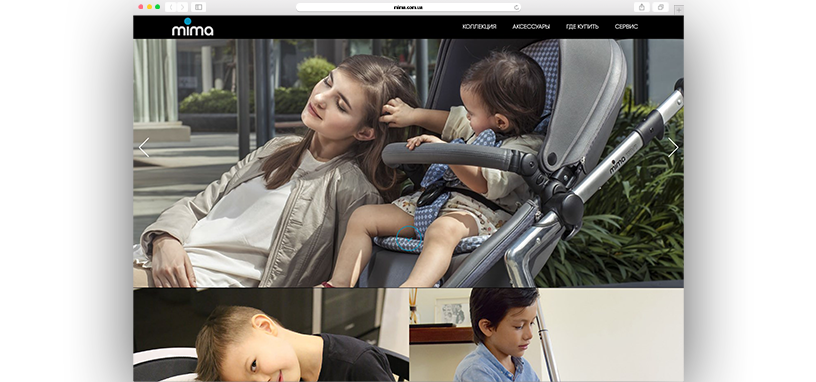
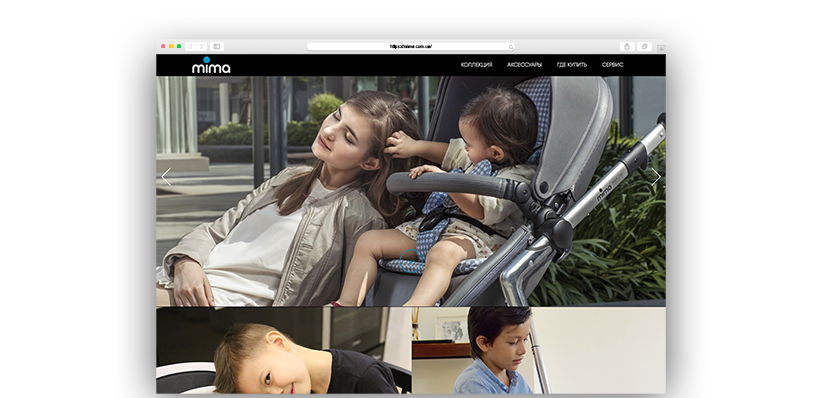
HTML/CSS Fixed

diff --git a/index.html b/index.html
@@ -181,8 +181,9 @@
                 <div class="row">
                     <div class="col-sm-12 col-md-4">
                         <div class="iq-works-box text-left">
-                            <div class="step">1</div>
+
                             <div class="icon-bg text-center">
+                                <div class="step">1</div>
                                 <i aria-hidden="true" class="ion-ionic"></i>
                             </div>
                             <h5 class="iq-tw-7 text-uppercase iq-mt-25 iq-mb-15">Цель сайта</h5>
@@ -191,8 +192,9 @@
                     </div>
                     <div class="col-sm-12 col-md-4 re-mt-50">
                         <div class="iq-works-box text-left">
-                            <div class="step">2</div>
+
                             <div class="icon-bg text-center">
+                                <div class="step">2</div>
                                 <i aria-hidden="true" class="ion-eye"></i>
                             </div>
                             <h5 class="iq-tw-7 text-uppercase iq-mt-25 iq-mb-15">Сбор информации ЦА</h5>
@@ -201,8 +203,9 @@
                     </div>
                     <div class="col-sm-12 col-md-4 re-mt-50">
                         <div class="iq-works-box text-left">
-                            <div class="step">3</div>
+
                             <div class="icon-bg text-center">
+                                <div class="step">3</div>
                                 <i aria-hidden="true" class="ion-clipboard"></i>
                             </div>
                             <h5 class="iq-tw-7 text-uppercase iq-mt-25 iq-mb-15">Четкое ТЗ</h5>
@@ -258,7 +261,7 @@
 
         <!-- Great Screenshots -->
 
-        <section id="great-screenshots" class="overview-block-ptb iq-bg iq-bg-fixed iq-over-blue-80 iq-screenshots" style="background: url(images/bg/07.jpg);">
+        <section id="great-screenshots" class="overview-block-ptb iq-bg iq-bg-fixed iq-over-blue-80 iq-screenshots" style="background: url(images/paralax.jpg);">
             <div class="container">
                 <div class="row">
                     <div class="col-sm-12">
@@ -665,7 +668,7 @@
                         <div class="col-md-6">
                             <div class="counter-info-img">
                                 <img class="center-block" src="images/comp1.png" alt="">
-<!--
+                                <!--
                                 <a href="video/01.mp4" class="iq-video popup-youtube"><i class="ion-ios-play-outline"></i></a>
                                 <div class="iq-waves">
                                     <div class="waves wave-1"></div>
@@ -695,26 +698,26 @@
                         <p class="iq-font-15">Более чем за 10 лет работы на рынке разработки сайтов, мы выявили самые эффективные технологии для создания сайтов:</p>
 
                         <div class="row">
-                            <div class="col-md-6">
+                            <div class="col-xs-6">
                                 <img class="img-responsive" src="images/tehnology/01.jpg" alt="">
                             </div>
-                            <div class="col-md-6">
+                            <div class="col-xs-6">
                                 <img class="img-responsive" src="images/tehnology/03.png" alt="">
                             </div>
                         </div>
                         <div class="row">
-                            <div class="col-md-6">
+                            <div class="col-xs-6">
                                 <img class="img-responsive" src="images/tehnology/04.png" alt="">
                             </div>
-                            <div class="col-md-6">
+                            <div class="col-xs-6">
                                 <img class="img-responsive" src="images/tehnology/05.png" alt="">
                             </div>
                         </div>
                         <div class="row">
-                            <div class="col-md-6">
+                            <div class="col-xs-6">
                                 <img class="img-responsive" src="images/tehnology/07.png" alt="">
                             </div>
-                            <div class="col-md-6">
+                            <div class="col-xs-6">
                                 <img class="img-responsive" src="images/tehnology/06.png" alt="">
                             </div>
                         </div>

diff --git a/css/responsive.css b/css/responsive.css
@@ -59,6 +59,8 @@ NOTE: This file contains the styling for responsive Template.
 	.slider-container .slider-left { right: 100%; }
 	.slider-container .slider-right { left: 100%; }
 	.iq-footer-box .iq-icon i { margin-right: 10px; }
+    .iq-amazing-tab .nav.nav-tabs li a span { font-size: 0; }
+    header .navbar-header .navbar-brand img, header .navbar-header .navbar-brand img { height:30px !important; width: auto !important; }
 }
 
 @media(max-width:992px) {
@@ -66,7 +68,7 @@ NOTE: This file contains the styling for responsive Template.
 	/*----------------
 	Section padding 
 	----------------*/
-	.overview-block-ptb { padding: 70px 0; }
+	.overview-block-ptb { padding: 30px 0; }
 	.overview-block-pt { padding: 70px 0 0; }
 	.overview-block-pb { padding: 0 0 70px; }
 	.iq-banner .banner-text h1 { font-size: 38px; }
@@ -79,8 +81,8 @@ NOTE: This file contains the styling for responsive Template.
 	.counter-info-img img { width: 100%; }
 	.counter-info-img img { margin-bottom: -110px; }
 	.counter-info .iq-video, .counter-info .iq-waves { left: 51%; }
-	.iq-amazing-tab .nav.nav-tabs li { width: 32%; }
-	.iq-amazing-tab .nav.nav-tabs li a span { font-size: 16px; }
+	.iq-amazing-tab .nav.nav-tabs li { width: 23%;     vertical-align: top;}
+	
 	.iq-amazing-tab .nav-tabs li a i { font-size: 40px; }
 	.iq-client { padding: 30px 20px; }
 	.iq-services-box .iq-icon i { float: none; margin-right: 0; padding-bottom: 10px; display: inline-block; width: 100%; }
@@ -108,6 +110,13 @@ NOTE: This file contains the styling for responsive Template.
     .portfolio-item {
         width: 100%;
     }
+    .iq-works-box, .how-works, .iq-counter-box{
+        text-align: center;
+    }
+    .icon-bg{
+        display: inline-block;
+    }
+    
 }
 @media(max-width:979px) {
 	.iq-objects-asked .iq-objects-01 { display: none; }
@@ -119,6 +128,7 @@ NOTE: This file contains the styling for responsive Template.
 	.screenshots-slider { min-height: 420px; }
 	.slider-container { width: 100%; height: 130%; left: 0; margin: -250px 0 0 0px; }
 	.screenshots-slider { min-height: 330px; }
+    
 }
 @media(max-width:767px) {
 	.iq-banner .banner-text { margin-top: 80px; }
@@ -127,7 +137,7 @@ NOTE: This file contains the styling for responsive Template.
 	.overview-block-ptb.how-works { padding: 0; }
 	.iq-objects { display: none; }
 	.iq-amazing-tab .nav-tabs li a i { margin-right: 0; }
-	.iq-amazing-tab .nav.nav-tabs li a span { font-size: 0; }
+	.iq-amazing-tab .nav.nav-tabs li a span { font-size: 0; display: none;}
 	.re4-mt-30 { margin-top: 30px; }
 	.re4-mt-50 { margin-top: 50px; }
 	#team h1.iq-font-white.iq-mt-60 { margin: 30px 0 !important; }
@@ -138,7 +148,7 @@ NOTE: This file contains the styling for responsive Template.
 	.owl-carousel .owl-nav .owl-next { right: 0%; }
 	.iq-objects-asked { display: none; }
 	.iq-banner .container-fluid, header .container-fluid { padding: 0 30px; }
-	h1.iq-mb-25 { font-size: 32px; margin-bottom: 10px !important; }
+	h1.iq-mb-25 { font-size: 27px; margin-bottom: 10px !important; }
 	h3 { font-size: 30px; }
 	.iq-error .iq-subscribe .form-group { width: 100%; }
 	.iq-error .button.iq-ml-25 { margin-left: 0 !important; }
@@ -158,7 +168,7 @@ NOTE: This file contains the styling for responsive Template.
 	header .nav > li a::before { display: none; }
 	header .navbar-default .navbar-nav > li > a:hover, header .navbar-default .navbar-nav > li > a:focus, header .navbar-default .navbar-nav > li.active > a, header .navbar-default .navbar-nav > li.active > a:focus, header .navbar-default .navbar-nav > li.active > a:hover { background: #4ac4f3; }
 	header .navbar-nav > li { margin: 0; }
-	header .menu-sticky .navbar-header .navbar-brand img { height: 40px; }
+	
 	header .menu-sticky.navbar-default .navbar-toggle { margin-top: 5px; }
 	.slider-container { width: 100%; height: 120%; left: 0; margin: -200px 0 0 0px; }
 	.screenshots-slider { min-height: 270px; }

diff --git a/css/style.css b/css/style.css
@@ -119,37 +119,37 @@ h6 a {
 h1 {
     font-size: 40px;
     font-style: normal;
-    line-height: 46px;
+    line-height: 1.2em;
 }
 
 h2 {
     font-size: 36px;
     font-style: normal;
-    line-height: 44px;
+    line-height: 1.2em;
 }
 
 h3 {
     font-size: 32px;
     font-style: normal;
-    line-height: 42px;
+    line-height: 1.2em;
 }
 
 h4 {
     font-size: 24px;
     font-style: normal;
-    line-height: 24px;
+    line-height: 1.2em;
 }
 
 h5 {
     font-size: 20px;
     font-style: normal;
-    line-height: 30px;
+    line-height: 1.2em;
 }
 
 h6 {
     font-size: 18px;
     font-style: normal;
-    line-height: 28px;
+    line-height: 1.2em;
 }
 
 .lead {
@@ -2791,6 +2791,8 @@ header .menu-sticky .button {
 .iq-loved-customers .owl-carousel .owl-item .item {
     padding: 10px 10px 20px;
 }
+
+
 
 .iq-client {
     position: relative;
